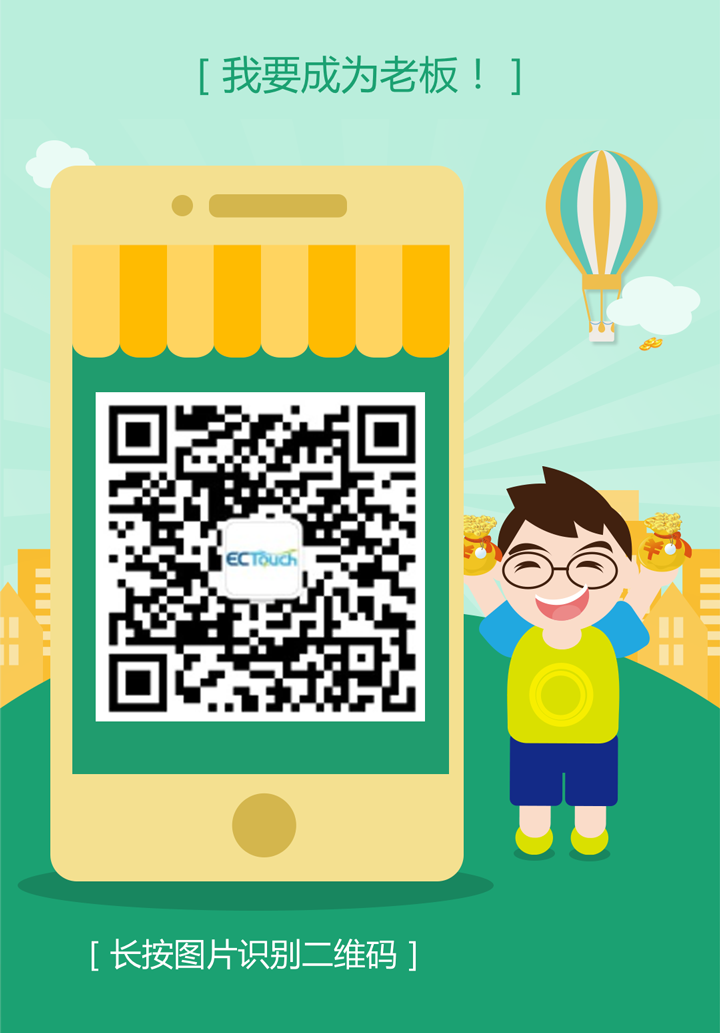
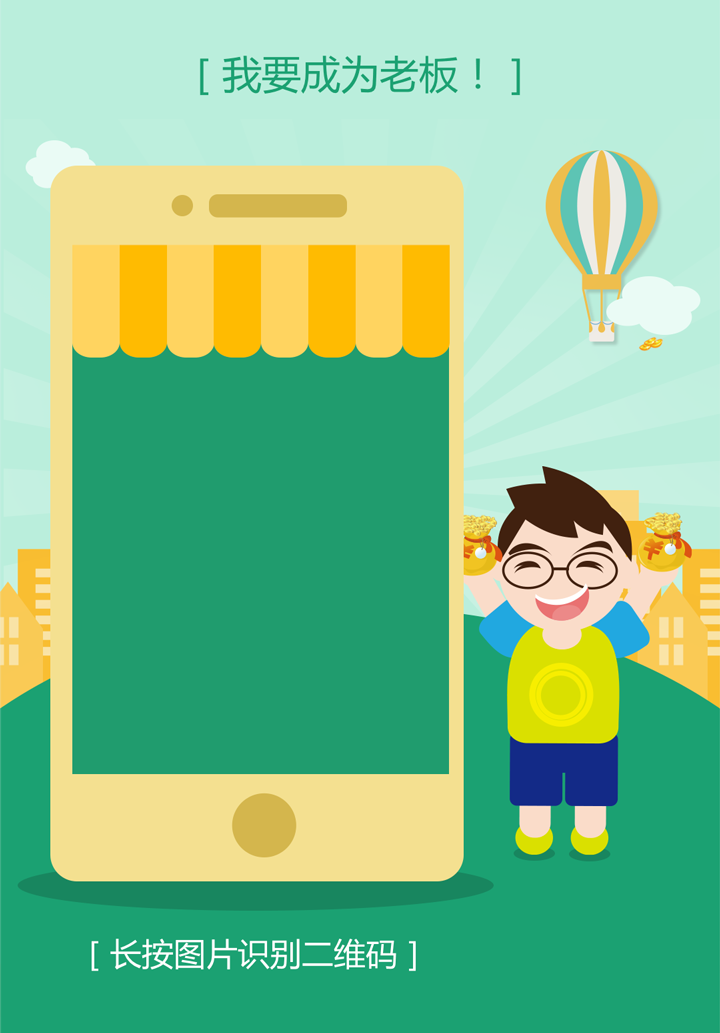
修改二维码尺寸

Changed region(s): [[0.1222, 0.3717, 0.6111, 0.7125]]

diff --git a/include/apps/default/controller/SaleController.class.php b/include/apps/default/controller/SaleController.class.php
@@ -384,7 +384,7 @@ class SaleController extends CommonController {
             // 纠错级别：L、M、Q、H
             $errorCorrectionLevel = 'M';
             // 点的大小：1到10
-            $matrixPointSize = 10;
+            $matrixPointSize = 12;
             @QRcode::png($url, $ew_img, $errorCorrectionLevel, $matrixPointSize, 2);
 //        }
 
